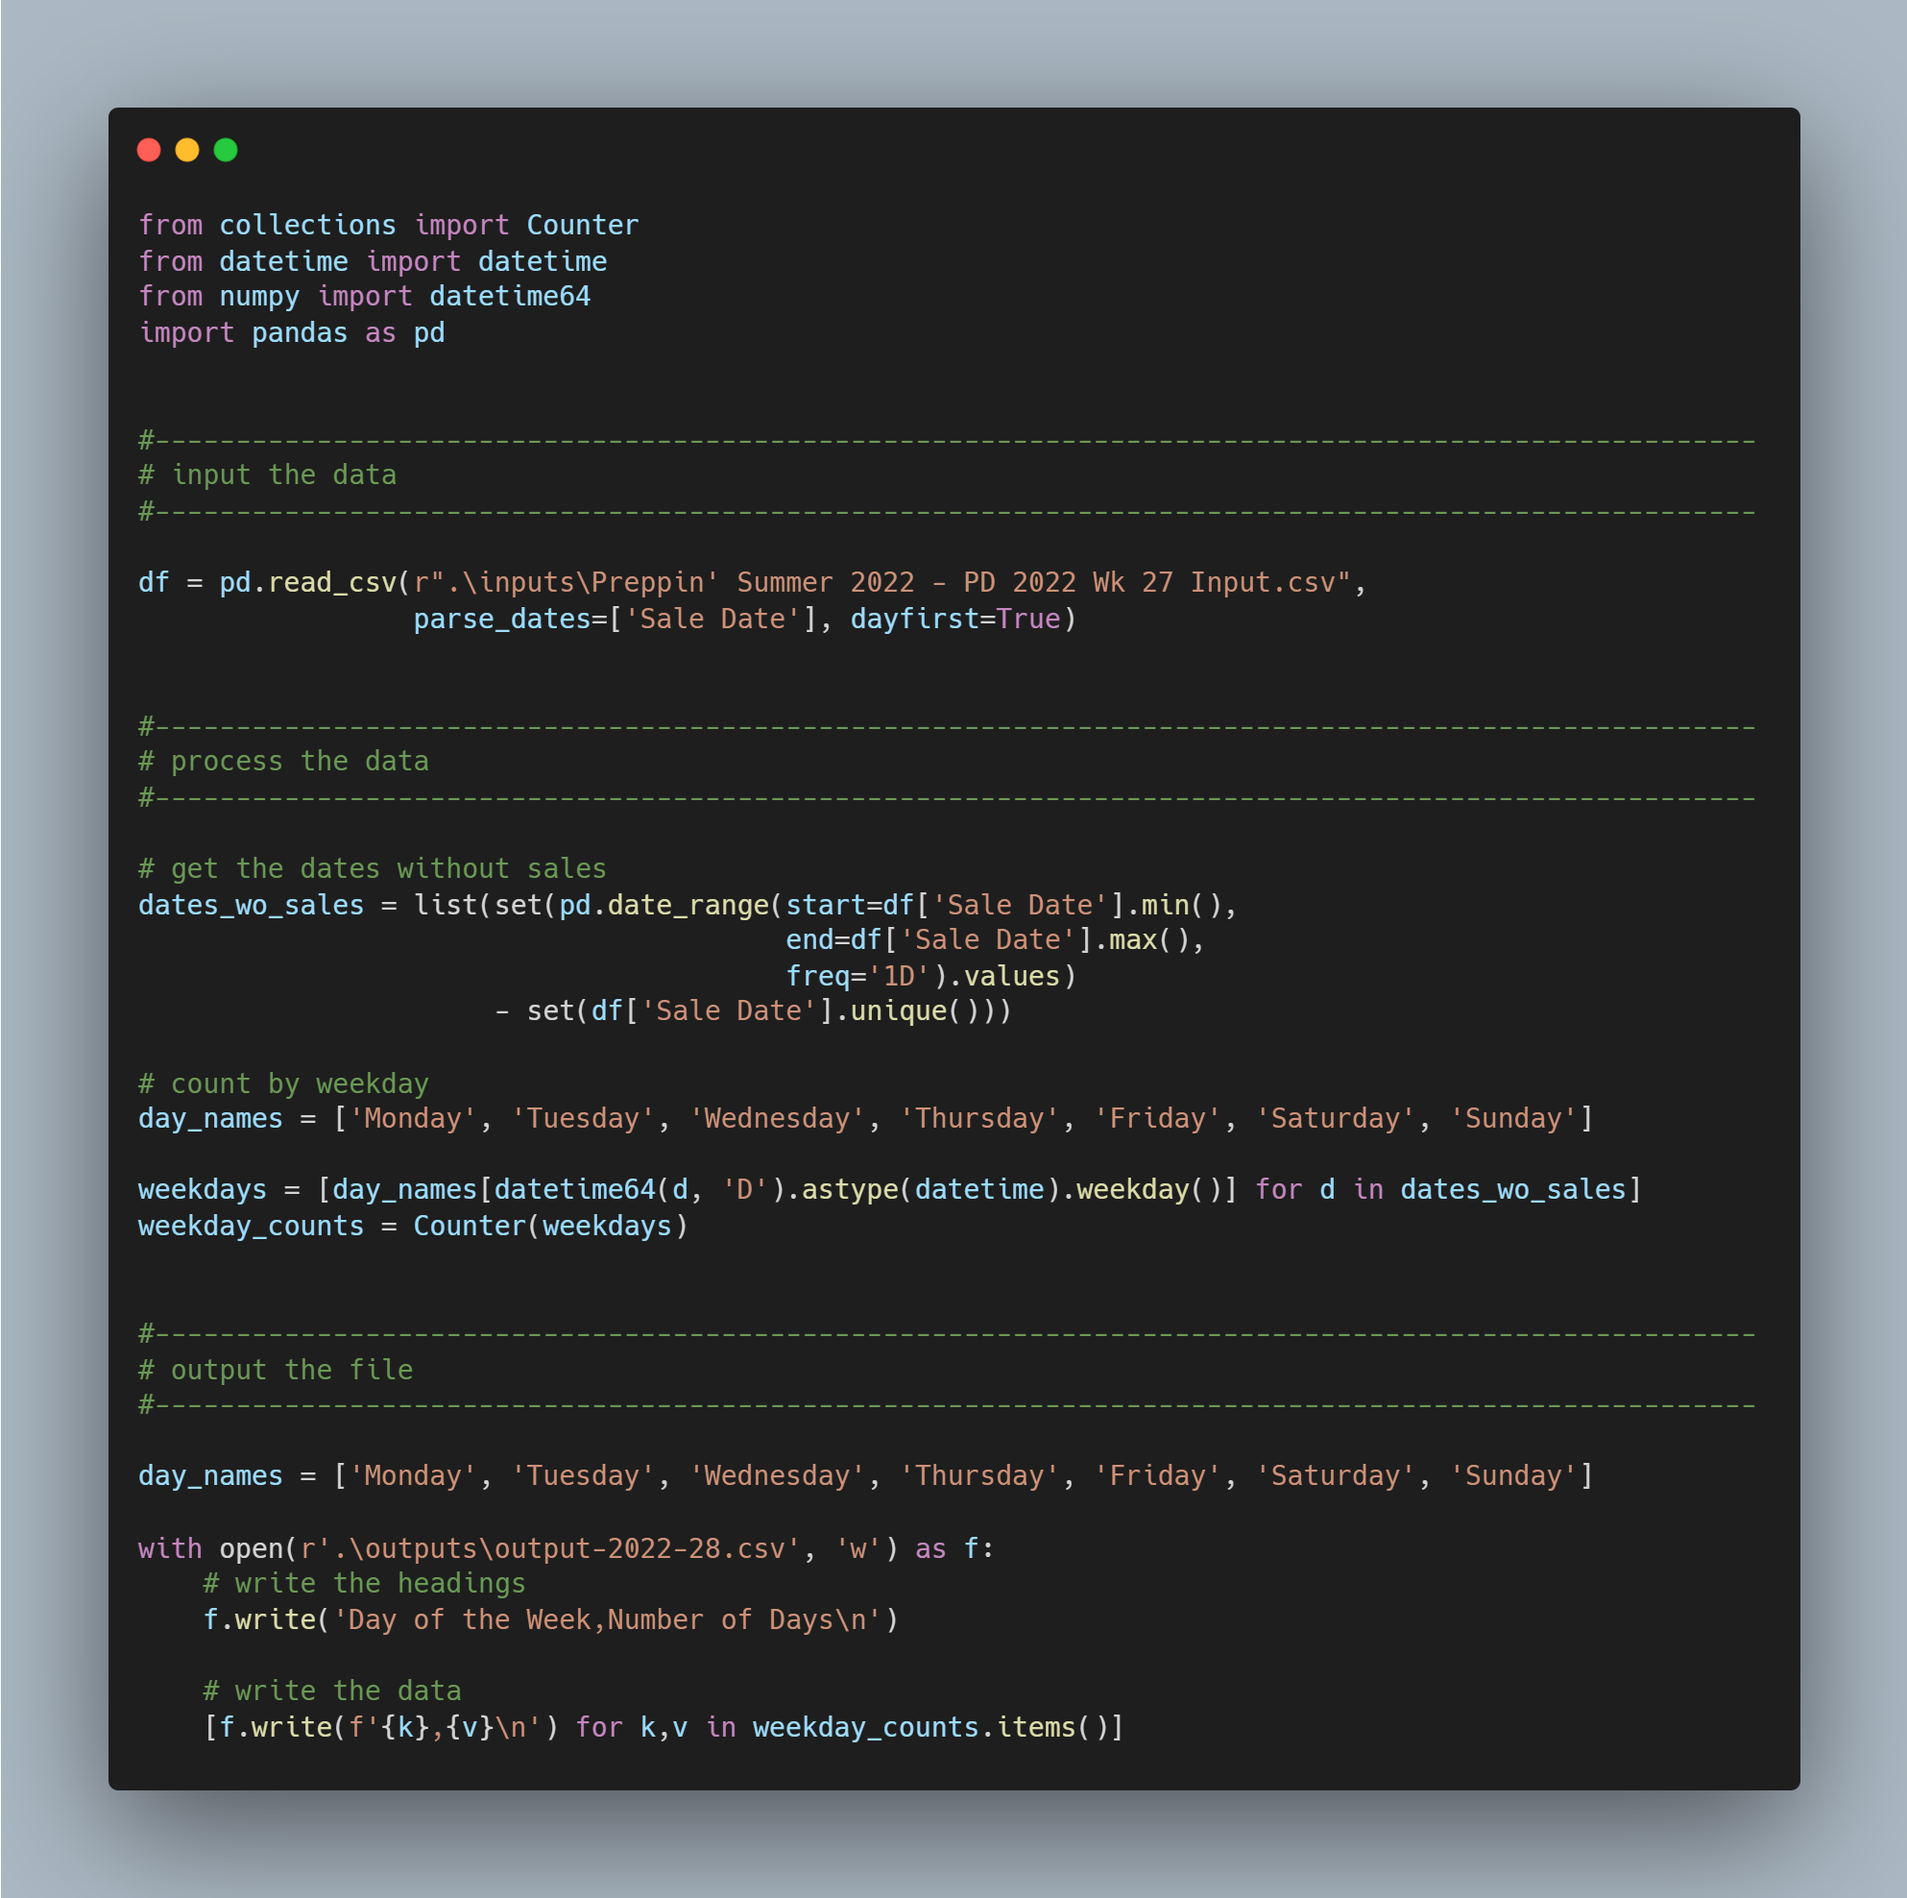
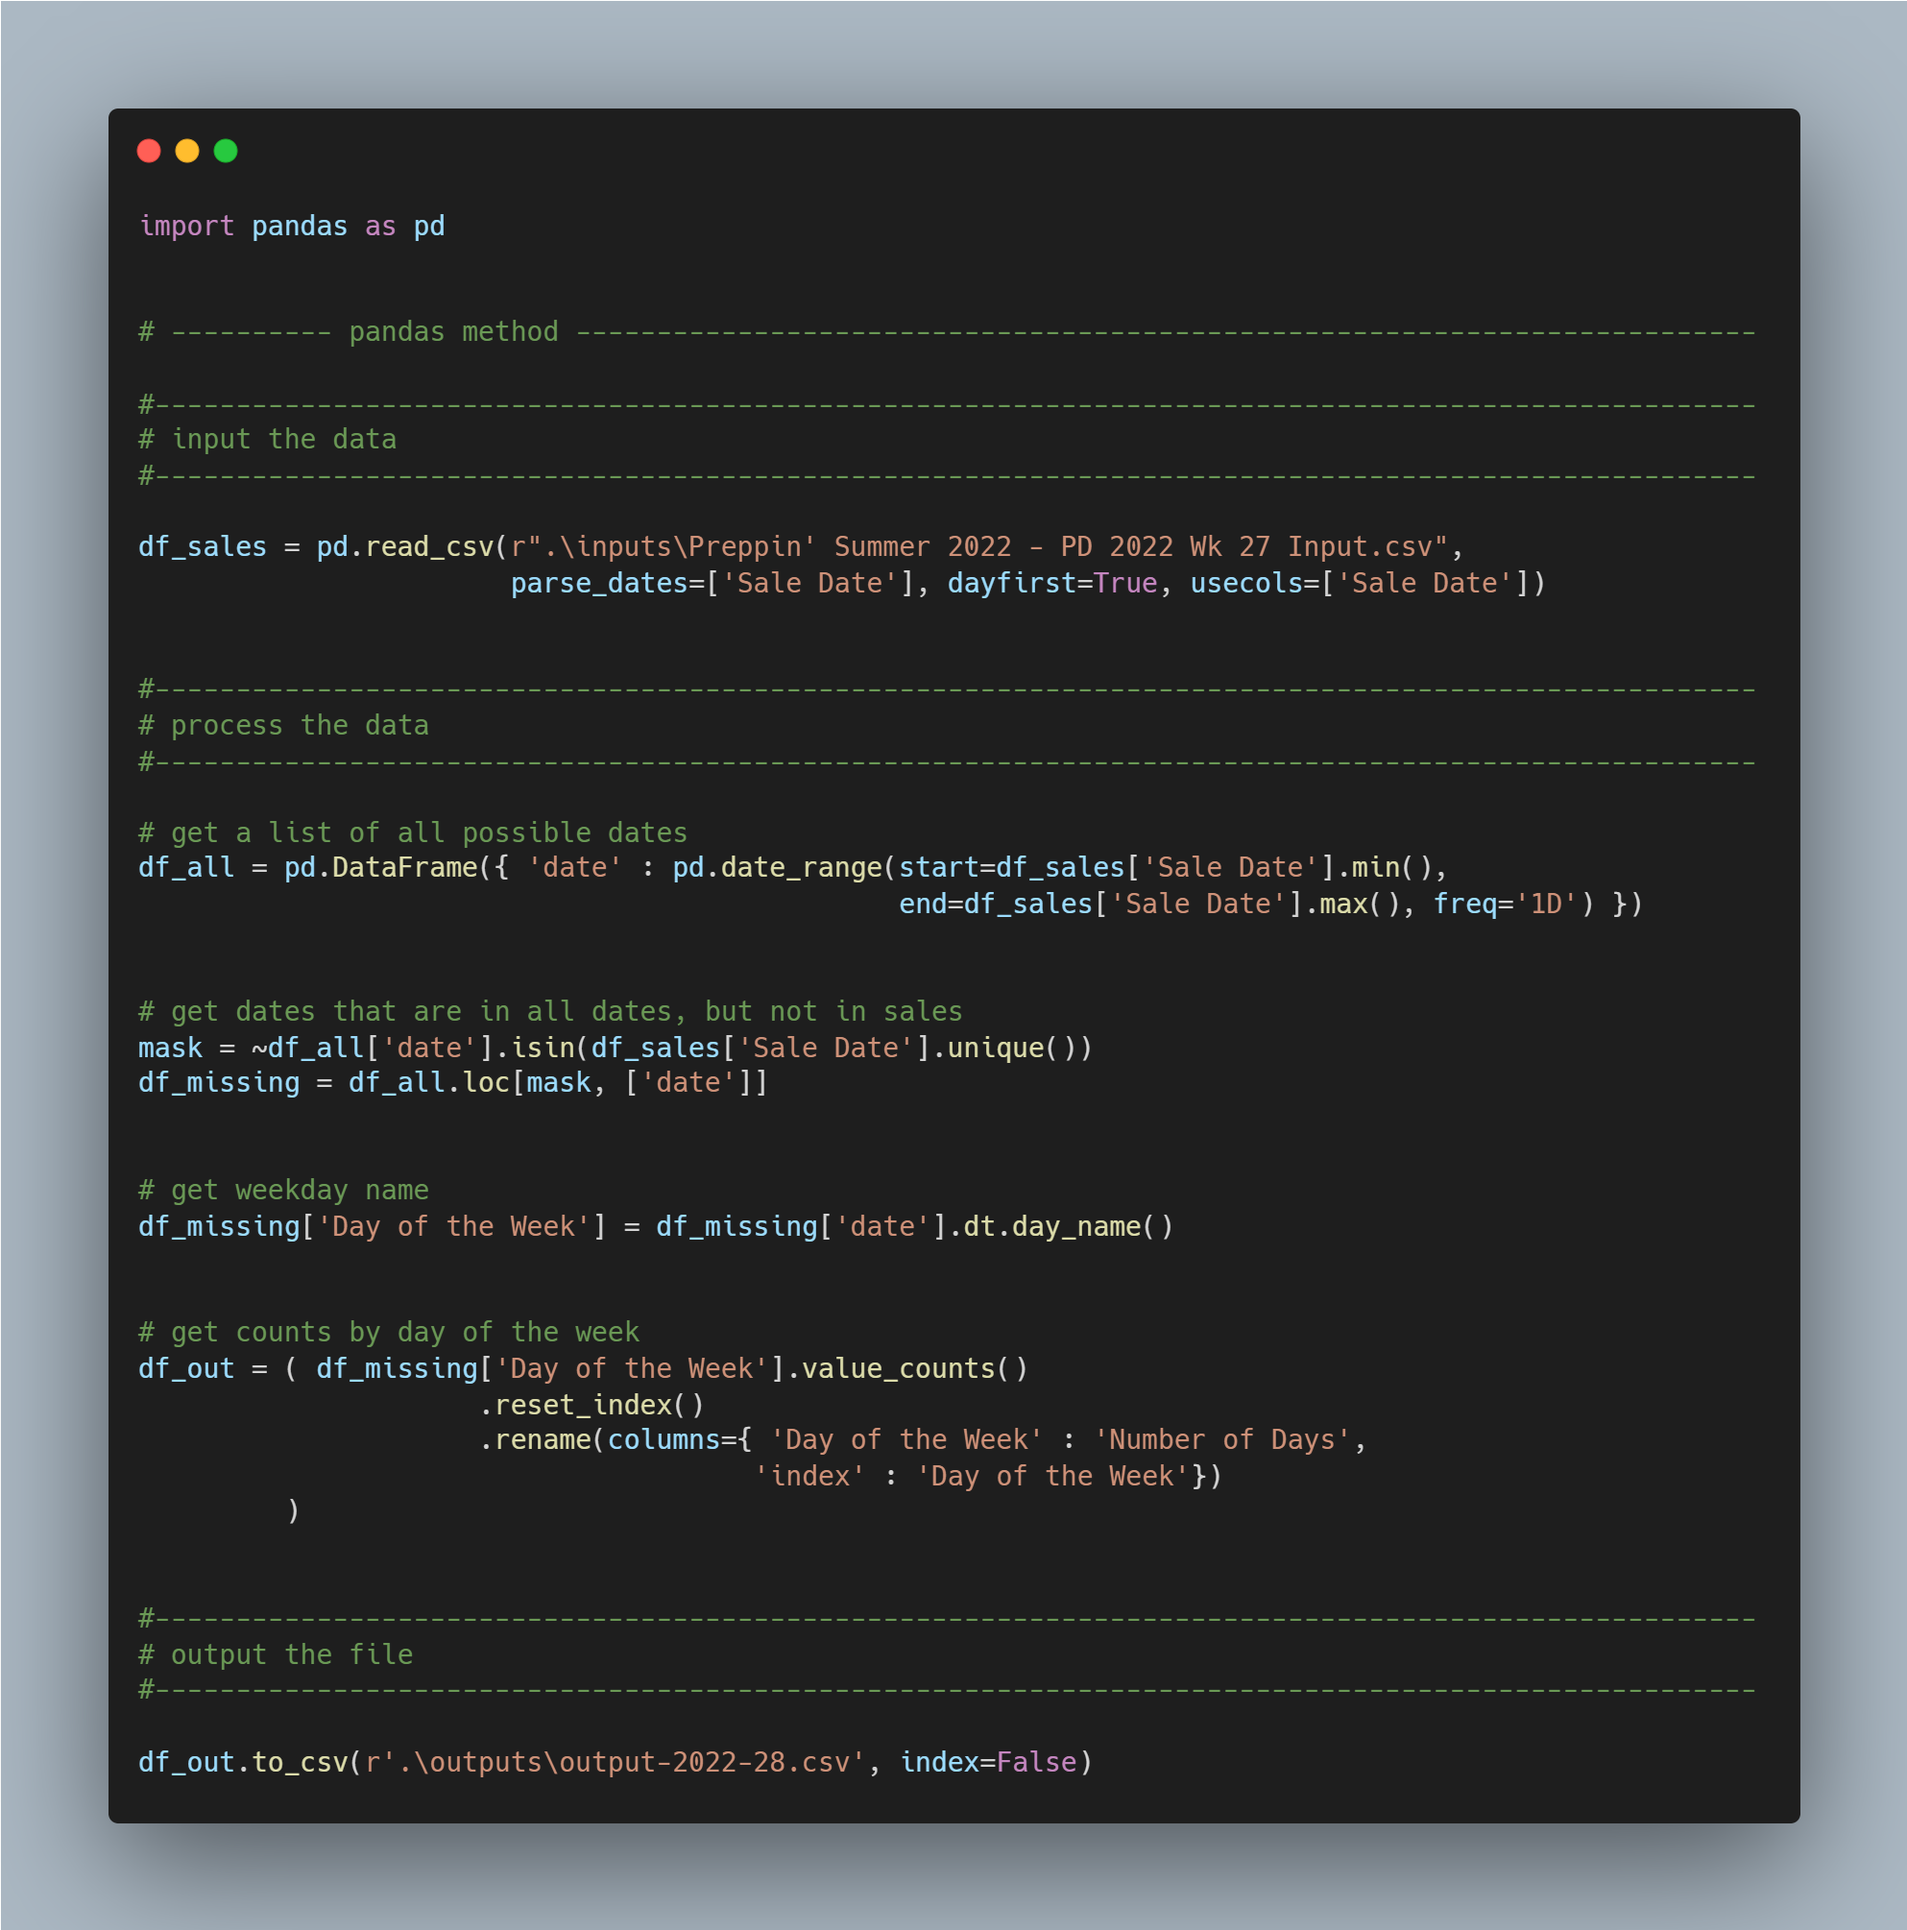
Added pandas version to .py file for week 2022-28

diff --git a/2022/preppin-data-2022-28/preppin-data-2022-28.py b/2022/preppin-data-2022-28/preppin-data-2022-28.py
@@ -22,35 +22,88 @@ Requirements:
 """
 
 
-from collections import Counter
-from datetime import datetime
-from numpy import datetime64
 import pandas as pd
-from output_check import output_check    # custom function to check my results vs. solution
+from output_check import output_check
 
+
+# ---------- pandas method -------------------------------------------------------------------------
 
 #---------------------------------------------------------------------------------------------------
 # input the data
 #---------------------------------------------------------------------------------------------------
 
-df = pd.read_csv(r".\inputs\Preppin' Summer 2022 - PD 2022 Wk 27 Input.csv", 
-                 parse_dates=['Sale Date'], dayfirst=True)
+df_sales = pd.read_csv(r".\inputs\Preppin' Summer 2022 - PD 2022 Wk 27 Input.csv", 
+                       parse_dates=['Sale Date'], dayfirst=True, usecols=['Sale Date'])
 
 
 #---------------------------------------------------------------------------------------------------
 # process the data
 #---------------------------------------------------------------------------------------------------
 
-# get the dates without sales 
-dates_wo_sales = list(set(pd.date_range(start=df['Sale Date'].min(), 
-                                        end=df['Sale Date'].max(), 
-                                        freq='1D').values)
-                      - set(df['Sale Date'].unique()))
+# get a list of all possible dates
+df_all = pd.DataFrame({ 'date' : pd.date_range(start=df_sales['Sale Date'].min(), 
+                                               end=df_sales['Sale Date'].max(), freq='1D') })
 
-# count by weekday
-day_names = ['Monday', 'Tuesday', 'Wednesday', 'Thursday', 'Friday', 'Saturday', 'Sunday']
 
-weekdays = [day_names[datetime64(d, 'D').astype(datetime).weekday()] for d in dates_wo_sales]
+# get dates that are in all dates, but not in sales
+mask = ~df_all['date'].isin(df_sales['Sale Date'].unique())
+df_missing = df_all.loc[mask, ['date']]
+
+
+# get weekday name
+df_missing['Day of the Week'] = df_missing['date'].dt.day_name()
+
+
+# get counts by day of the week
+df_out = ( df_missing['Day of the Week'].value_counts()
+                     .reset_index()
+                     .rename(columns={ 'Day of the Week' : 'Number of Days',
+                                      'index' : 'Day of the Week'})
+         )
+
+
+#---------------------------------------------------------------------------------------------------
+# output the file
+#---------------------------------------------------------------------------------------------------
+
+df_out.to_csv(r'.\outputs\output-2022-28.csv', index=False)
+
+
+
+
+
+# ---------- non-pandas method ---------------------------------------------------------------------
+
+from collections import Counter
+from datetime import datetime
+from numpy import datetime64
+
+
+#---------------------------------------------------------------------------------------------------
+# input the data
+#---------------------------------------------------------------------------------------------------
+
+df_sales = pd.read_csv(r".\inputs\Preppin' Summer 2022 - PD 2022 Wk 27 Input.csv", 
+                       parse_dates=['Sale Date'], dayfirst=True, usecols=['Sale Date'])
+
+
+#---------------------------------------------------------------------------------------------------
+# process the data
+#---------------------------------------------------------------------------------------------------
+
+# days without sales
+missing = list(set(pd.date_range(start=df_sales['Sale Date'].min(), 
+                                 end=df_sales['Sale Date'].max(), freq='1D').values)
+               -
+               set(df_sales['Sale Date'].unique())
+              )
+
+
+# get days of the week
+weekdays = [datetime64(d, 'D').astype(datetime).strftime('%A') for d in missing]
+
+
+# get count by day of week
 weekday_counts = Counter(weekdays)
 
 
@@ -58,14 +111,14 @@ weekday_counts = Counter(weekdays)
 # output the file
 #---------------------------------------------------------------------------------------------------
 
-day_names = ['Monday', 'Tuesday', 'Wednesday', 'Thursday', 'Friday', 'Saturday', 'Sunday']
-
 with open(r'.\outputs\output-2022-28.csv', 'w') as f:
     # write the headings
-    f.write('Day of the Week,Number of Days\n')
-    
-    # write the data
+    f.write('Day of the Week,Number of Days\n')  
+
+    # write out the data
     [f.write(f'{k},{v}\n') for k,v in weekday_counts.items()]
+
+
 
 
 #---------------------------------------------------------------------------------------------------
@@ -80,6 +133,20 @@ round_dec = 8
 
 output_check(solution_files=solution_files, my_files=my_files, unique_cols=unique_cols, 
              col_order_matters=col_order_matters, round_dec=round_dec)
+
+
+
+
+#---------------------------------------------------------------------------------------------------
+# pandas method vs. sets method
+#---------------------------------------------------------------------------------------------------
+
+# pandas method:
+# 1M recs = 26.1 ms ± 5.37 ms per loop (mean ± std. dev. of 7 runs, 10 loops each)
+
+# sets method: -- slightly faster
+# 1M recs = 19.1 ms ± 281 µs per loop (mean ± std. dev. of 7 runs, 100 loops each)
+
 
 
 
@@ -108,7 +175,7 @@ dates_wo_sales = [d for d
                   if d not in df['Sale Date'].unique()]
 
 
-# method 3: sets
+# method 3: sets -- FASTEST
 # 4,000 recs = 1.19 ms ± 45.3 µs per loop (mean ± std. dev. of 7 runs, 1000 loops each) -- FASTEST
 # 1M recs    = 17.2 ms ± 1.03 ms per loop (mean ± std. dev. of 7 runs, 100 loops each)
 
@@ -117,10 +184,22 @@ dates_wo_sales = list(set(pd.date_range(start=df['Sale Date'].min(), end=df['Sal
                       - set(df['Sale Date'].unique()))
 
 
+# method 4: merge
+# 4,000 recs = 7.12 ms ± 96.3 µs per loop (mean ± std. dev. of 7 runs, 100 loops each)
+# 1M recs    = 214 ms ± 6.18 ms per loop (mean ± std. dev. of 7 runs, 1 loop each)
+%%timeit 
+dates_wo_sales = ( df_all.merge(df_sales, left_on='date', right_on='Sale Date', 
+                              how='left', indicator=True)
+                         .query("_merge == 'left_only'") 
+                 )
+
+
 
 #---------------------------------------------------------------------------------------------------
 # options for getting the weekday counts
 #---------------------------------------------------------------------------------------------------
+
+# all times similar at 1M recs
 
 # method 1a: list comprehension and counter, weekday lookup
 # 4,000 recs = 1.35 ms ± 79.3 µs per loop (mean ± std. dev. of 7 runs, 1000 loops each)
